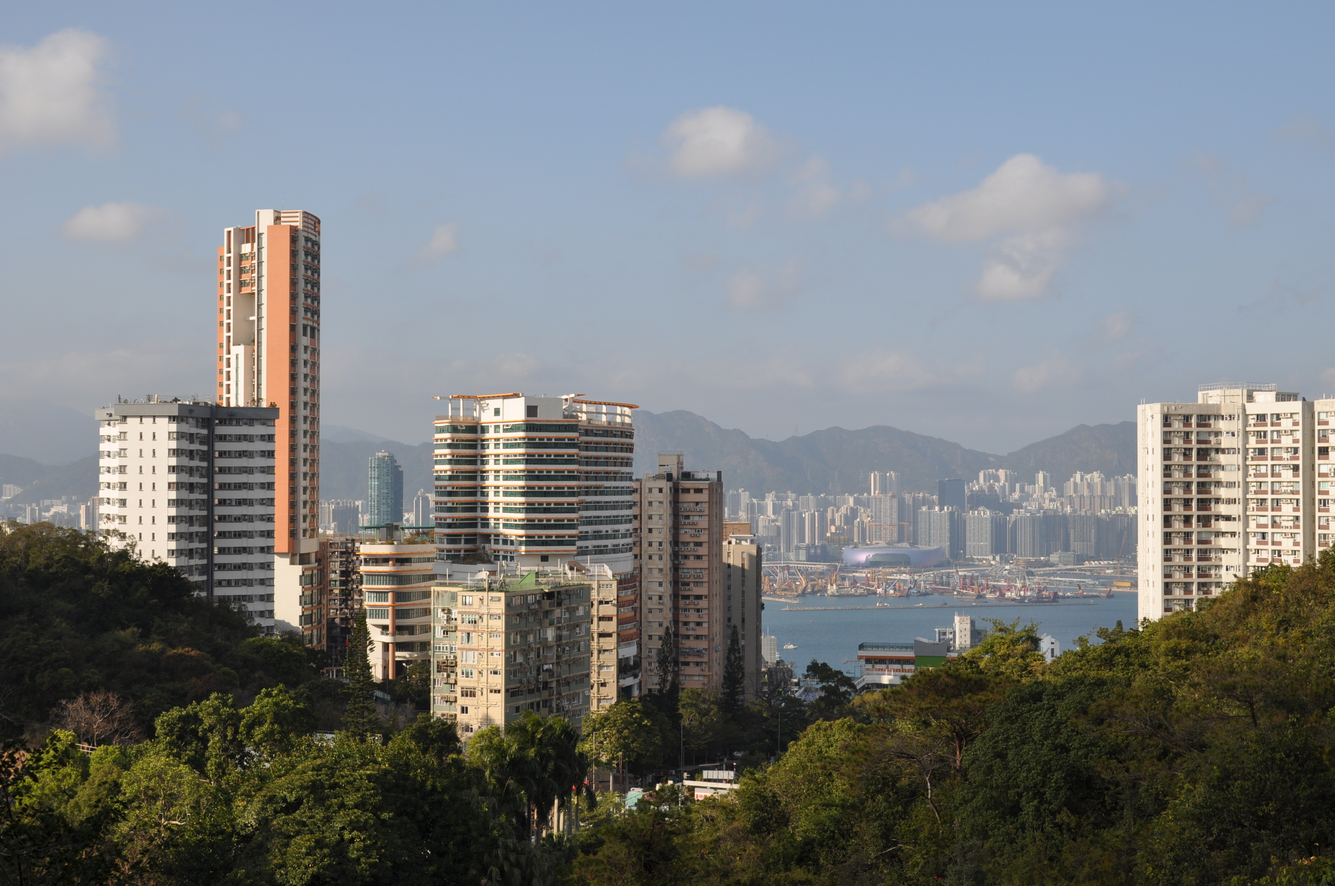
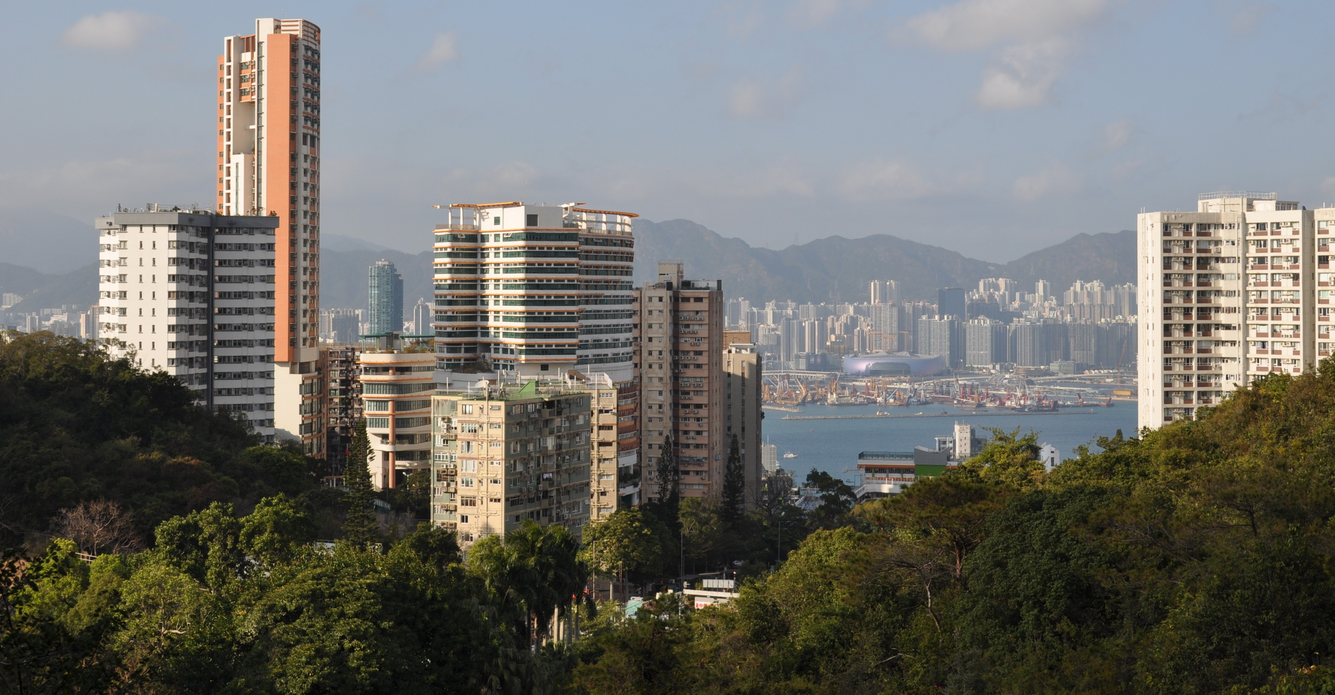
add navbar and footer

diff --git a/src/app/home/page.tsx b/src/app/home/page.tsx
@@ -1,10 +1,13 @@
 import React from 'react'
 import Image from "next/image";
 import sunsetHikeBg from "../../../public/assets/sunset_hike_bg.jpg";
+import Navbar from '@/components/navbar';
+import Footer from '@/components/footer';
 
 const HomePage = () => {
     return (
         <>
+            <Navbar />
             <div className="h-full">
                 <div className="">
                     <Image
@@ -16,8 +19,8 @@ const HomePage = () => {
                 <div className="flex justify-center p-15">
                     <h1 className="font-bold text-8xl">WELCOME BLA BLA BLA</h1>
                 </div>
-                
             </div>
+            <Footer />
         </>
     )
 }
